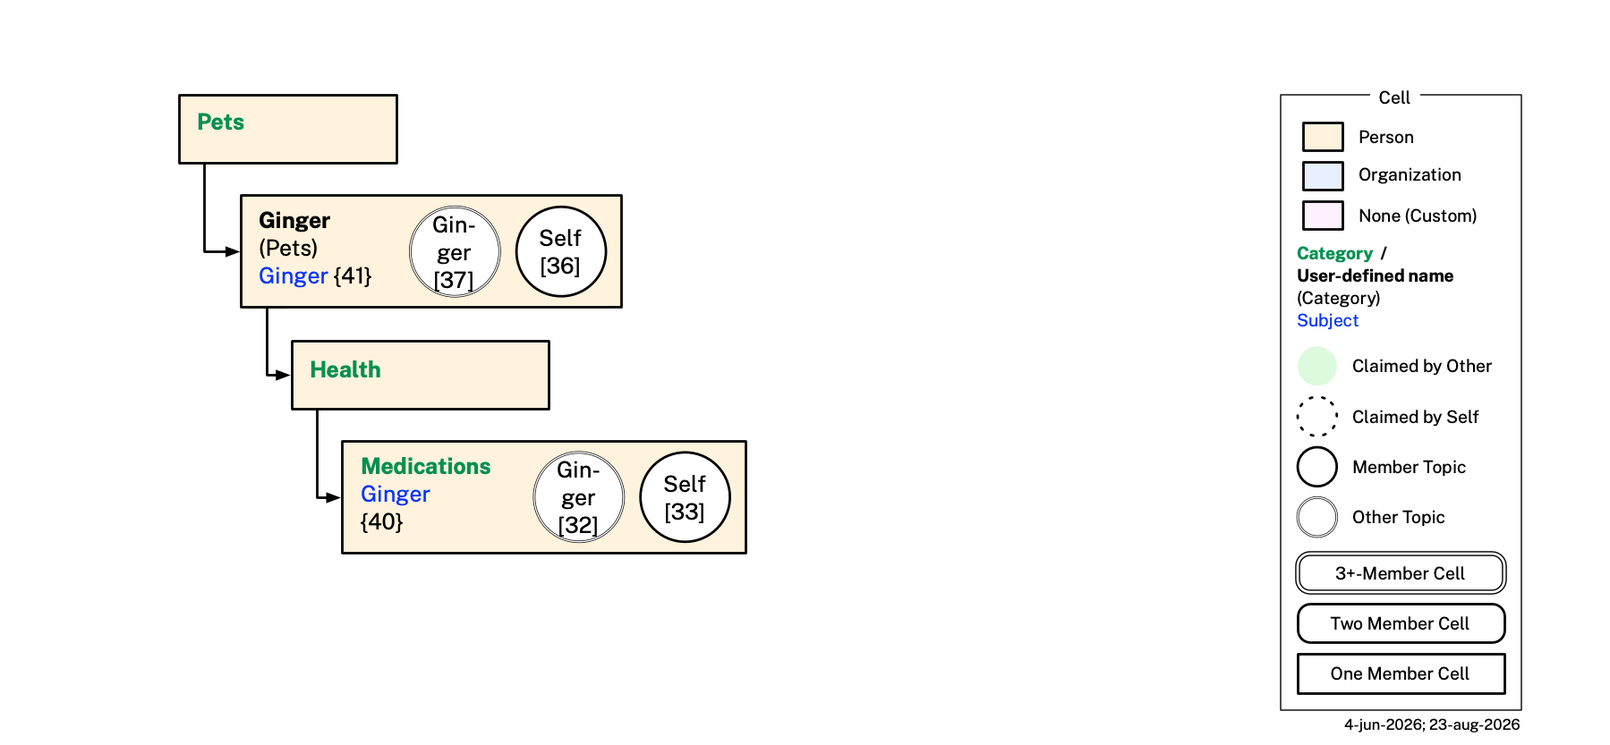
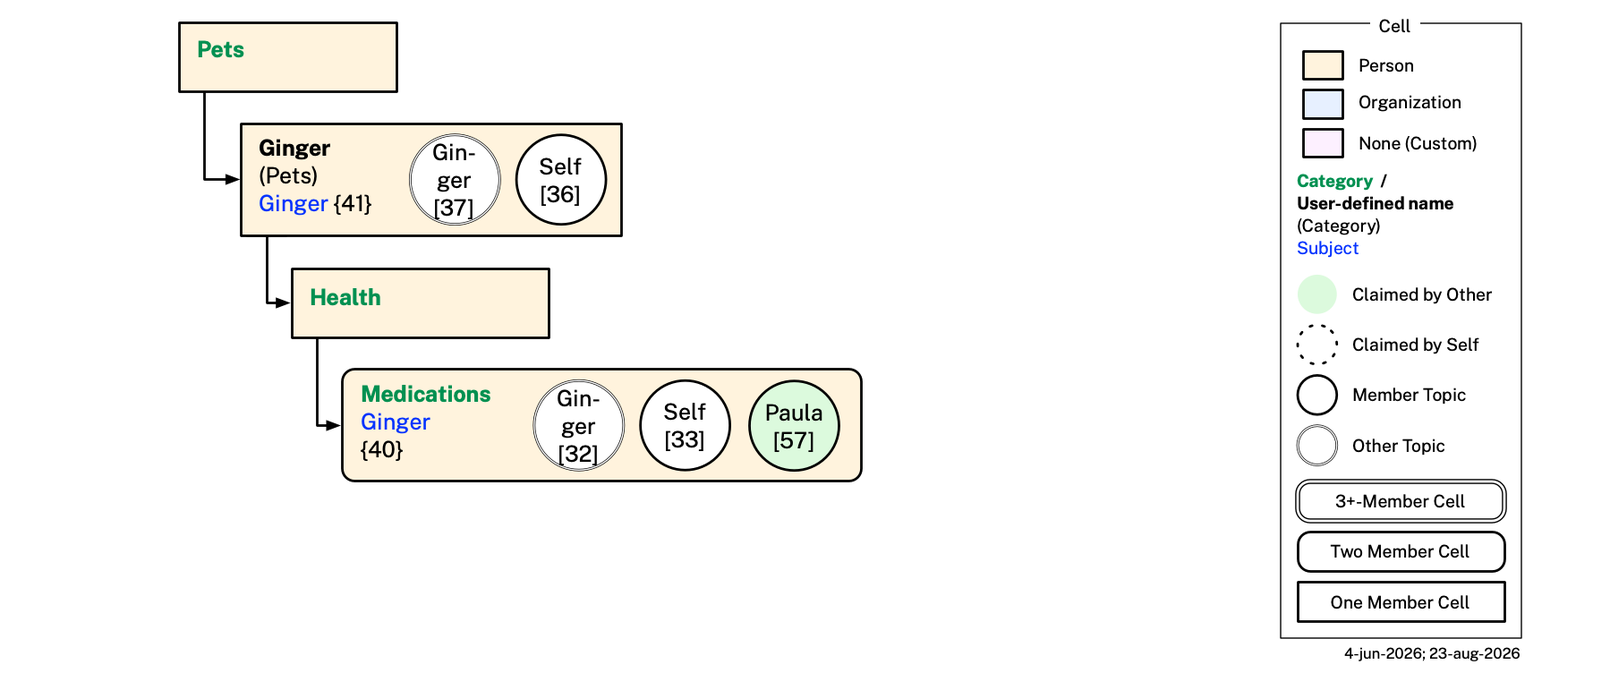
Share Ginger's Medications cell with Paula (topic 57)
- Medications cell (cell-40) becomes cell:TwoMember, shared by Self
  with Paula: adds topic-57 (Paula's own bare given-name claim) as
  the second memberTopics entry alongside topic-33; subject stays
  :Ginger, backed by otherTopics topic-32.
- Generate example/topics/images/topic-57.png via draw.py.
- Update EXAMPLE.md narrative, cell/topic tables, and the invite-link
  paragraph (hyperlink "cell 40" to the Medications cell-databook).
- Fix CLAUDE.md Checks 10f/15: "2 Member Cell" is a single border with
  rounded corners, not a double border — only 3+-Member doubles the
  border. Corrected to match the actual diagram legends.

diff --git a/CLAUDE.md b/CLAUDE.md
@@ -74,7 +74,8 @@ Every topic below is an embedded section (`mia.topics` entry + `### Topic NN` bo
 | Topic 29 — `example/Cells/People/Others/Fred Flintstone/Fred Flintstone(others).databook.md` | Alice's 1:1 topic with Fred; social network with Fred as member — claimed by Alice |
 | Topic 31 — `example/Cells/People/Others/Fred Flintstone/Fred Flintstone(others).databook.md` | Fred's self-claimed Fred persona |
 | Topic 32 — `example/Cells/Pets/Ginger/Health/Medications/Medications.databook.md` | Alice's record of her cat Ginger's medications — amoxicillin/clavulanate course, ongoing glucosamine/chondroitin supplement — claimed by Alice; linked as an `otherTopic` (Ginger has no `p:Person` individual) |
-| Topic 33 — `example/Cells/Pets/Ginger/Health/Medications/Medications.databook.md` | Deliberately empty — the cell's required `memberTopics` entry, claimed by Alice |
+| Topic 33 — `example/Cells/Pets/Ginger/Health/Medications/Medications.databook.md` | Deliberately empty — one of the cell's two required `memberTopics` entries, claimed by Alice |
+| Topic 57 — `example/Cells/Pets/Ginger/Health/Medications/Medications.databook.md` | Deliberately empty — the other required `memberTopics` entry, claimed by Paula, after the cell (created by Self) was shared with Paula and became a `cell:TwoMember` cell |
 | `example/topics/self.ttl` | `:Self`'s sole type declaration (`rdf:type owl:NamedIndividual, persona:Person`); not `owl:imports`ed anywhere, merged in only for validation |
 
 ## Architecture
@@ -316,7 +317,7 @@ Note: this check's `^id:\s*(\S+)` regex is anchored at true line-start with no l
 
 - **10e — Child arrows match folder nesting**: Every downward child arrow from cell box A to cell box B in a diagram must correspond to B's folder being a direct filesystem subfolder of A's folder (i.e. B is a descendant cell of A) — child links are derived purely from folder nesting, not any `child:` YAML field. Conversely, every direct-subfolder relationship between two cells must be reflected by a visible child arrow in the diagram.
 
-- **10f — Cell box border style matches `mia.memberCount`**: Per the Key legend, a cell box is drawn with one of three border styles — a single border ("1 Member Cell"), a double border ("2 Member Cell"), or a bold/double border ("3+ Member Cell") — corresponding to `cell:OneMember`, `cell:TwoMember`, and `cell:ThreePlusMember` respectively (these display strings are `cell:label` values, matching the diagrams' wording). The border style shown for a cell box must match the actual `mia.memberCount` value of the cell-databook co-located in that box's own folder. This is a visual check (no script) — e.g. `people2.png`'s "Jane Starostina" box is drawn with a single border ("1 Member Cell"), which must match `Jane-Starostina(primary-care-physician).databook.md`'s `mia.memberCount: "cell:OneMember"`.
+- **10f — Cell box border style matches `mia.memberCount`**: Per the Key legend, a cell box is drawn with one of three border styles — square corners with a single border ("1 Member Cell"), rounded corners with a single border ("2 Member Cell"), or rounded corners with a double/bold border ("3+ Member Cell") — corresponding to `cell:OneMember`, `cell:TwoMember`, and `cell:ThreePlusMember` respectively (these display strings are `cell:label` values, matching the diagrams' wording). The distinguishing feature between a One- and a Two-Member cell is corner rounding, not border doubling — only the 3+-Member style doubles the border. The border style shown for a cell box must match the actual `mia.memberCount` value of the cell-databook co-located in that box's own folder. This is a visual check (no script) — e.g. `people2.png`'s "Jane Starostina" box is drawn with square corners and a single border ("1 Member Cell"), which must match `Jane-Starostina(primary-care-physician).databook.md`'s `mia.memberCount: "cell:OneMember"`; `pets.png`'s "Medications" box is drawn with rounded corners and a single border ("2 Member Cell"), matching its `mia.memberCount: "cell:TwoMember"`.
 
 - **10g — Blue "Subject" annotation matches `cell:subject`**: Per the Key legend's "Subject" entry, a cell box carries a blue "Subject" text annotation listing the name(s) of the resource(s) the cell's relationship is about, comma-separated when there are two. This text must list exactly the same value(s) — by name, not IRI — as the actual `mia.subject` value(s) of the cell-databook co-located in that box's own folder, no more and no fewer. This is a visual check (no script) — e.g. `finances.png`'s "Banking & Payments Firms / Citibank" box's Subject annotation reads "Self, Citibank", matching `Citibank(banking-payments).databook.md`'s `mia.subject: [":Self", ":Citibank"]`.
 
@@ -338,7 +339,7 @@ for path in sorted(glob.glob('example/Cells/**/*.databook.md', recursive=True)):
 
 - **10j — Fill color and folder-name-text color match real data**: Every cell across all 11 diagrams carries exactly two independent, mechanically-checkable colors, matching Check 10a's Person/Organization/Custom fill-swatch legend (see Check 15's identical rule for `cat-cell-topic.png`): a **fill** color, applied to the folder icon itself (the cell's own content box is always plain white and never carries fill) — tan if the folder's `mia.origin` resolves to `cat:Person`, light blue if `cat:Organization`, purple/Custom if the cell has no origin at all — and a folder-**name-text** color (green/"Predefined" if the folder's `title:` equals the origin class's own `rdfs:label` verbatim, plain black/"User-defined" otherwise — always black for a no-origin/Custom cell). This is a visual check (no automated pixel/OCR comparison) — use Check 20's script (identical rule, just applied to a different set of diagrams) to compute the correct fill/text color for every real folder and cross-reference against whichever diagram is being checked — e.g. `people.png`: "People"/"Others" tan fill + green text; "Bob Johnson"/"Fred Flintstone" tan fill + black text; `work.png`: "Paula"/"Alice Walker" light-blue fill + black text; `people2.png`: "Paula Walker"/"Jane Starostina"/"Med. App. Info" tan fill + black text; `pets.png`: "Pets"/"Health"/"Medications" tan fill + green text (folder name matches origin label), "Ginger" tan fill + black text (origin `cat:Pets` label "Pets" ≠ folder name "Ginger"). No real example cell currently uses the Custom (no-origin, `(custom)` filename) case — every current cell has an origin — so no example diagram box is expected to show purple fill yet.
 
-The 11 diagrams are: `example/images/people.png`, `example/images/people2.png`, `example/images/work.png`, `example/images/companies.png`, `example/images/finances.png`, `example/images/gov-state.png`, `example/images/gov-federal.png`, `example/images/gov-municipality.png`, `example/images/misc.png`, `example/images/affiliations.png`, `example/images/pets.png`. There is no `health.png` — its content, e.g. Health & Wellness/Medical/Providers, lives in `people2.png` instead. `pets.png` shows both the "Ginger" cell (cell-41, `{41}`, topics `[36]`/`[37]`) and the "Medications" cell (cell-40, `{40}`, topics `[32]`/`[33]`) as separate content boxes under the `Pets → Ginger → Health → Medications` folder nesting.
+The 11 diagrams are: `example/images/people.png`, `example/images/people2.png`, `example/images/work.png`, `example/images/companies.png`, `example/images/finances.png`, `example/images/gov-state.png`, `example/images/gov-federal.png`, `example/images/gov-municipality.png`, `example/images/misc.png`, `example/images/affiliations.png`, `example/images/pets.png`. There is no `health.png` — its content, e.g. Health & Wellness/Medical/Providers, lives in `people2.png` instead. `pets.png` shows both the "Ginger" cell (cell-41, `{41}`, topics `[36]`/`[37]`) and the "Medications" cell (cell-40, `{40}`, topics `[32]`/`[33]`/`[57]`) as separate content boxes under the `Pets → Ginger → Health → Medications` folder nesting.
 
 **Check 11 — Physical folder structure IS the tree of cells in `example/Cells/`**: This check applies only to `example/Cells/` — the user's own instance tree — since there is no separate canonical-instance file tree to mirror. There is no `mia.child`/`mia.cell` YAML list to cross-check the tree against either, so this check has no independently-asserted list to "mirror" at all; it collapses to a pure filesystem sanity check with no YAML frontmatter parsing at all. A folder is a **cell** ("marker dir") iff it directly contains exactly one `*.databook.md` file (the only DataBook type in a user's instance tree is `cell-databook`, so no `-cell` marker is needed to identify one) — that file is simultaneously the cell's real (or placeholder) content and its tree-node marker (cell.ttl's folder ownership boundary rule). A folder can never legally hold more than one cell-databook: a `cell:Cell` is self-contained, and letting two cells share a folder would risk a single file in that folder becoming ambiguously part of both — this check flags any such folder as an error. A plain filesystem folder with no cell-databook of its own is not a cell at all — that word stays reserved for a folder that does have one. Cell naming is not standardized — a cell's own folder name may be the category's display label, a role-based label, or anything else — but a cell-databook's own filename is always the folder's exact verbatim name (see the Cell DataBook Filename Convention), so this check's per-folder marker test and its filename root are one and the same string. A bare, marker-less pass-through directory between two marker dirs is legal, matching README.md's own definition of a "regular filesystem folder" ("A folder without a matching cell DataBook is simply a regular file system folder, not a cell — **even if it contains nested cells of its own**"): such a folder is legal anywhere in the tree, including between two marker dirs, as long as it isn't otherwise empty (i.e. something beneath it eventually has a cell-databook). Run:
 
@@ -423,7 +424,7 @@ If a `TOO MANY CELLS` issue is found, move the extra file(s) out to their own ne
 - **14b** — every `cat:` property defined in `category.ttl` appears as an arrow in the diagram, under the box matching its domain (catches new properties added to the ttl but never drawn, or drawn under the wrong box). This means just `templateCell`.
 - **14c** — the class hierarchy `Category` → `Person`/`Organization` (both abstract) and their leaf subclasses, shown in the diagram matches `category.ttl`'s actual `rdfs:subClassOf` and `cell:abstract` values. There is no second tree to check — `category.ttl` defines no `Folder` hierarchy at all.
 
-**Check 15 — `images/cat-cell-topic.png` matches example usage**: The legend is split into two boxes: a **Category** legend (title "Category") holds only the two folder-**name**-text swatches, "Predefined foldername" (green) and "User-defined foldername" (plain black, no color swatch — it's the absence of green, not a third text color); the **Cell** legend holds three fill-color swatches — Custom (purple), Person (tan), Organization (light blue) — alongside the existing Subject/Origin and border-style entries. None of these names are OWL classes — `category.ttl` defines no `Folder`/`CategoryDefined`/`UserDefined` class; Custom stays a pure filename/display convention. Fill color is on the folder icon, reflecting `c:origin`'s presence and ancestry (tan when it resolves to `cat:Person`, light blue when `cat:Organization`, purple/Custom when the cell has no origin at all — see README's "Category Folders" section); the cell's own content box never carries fill, always plain white. Folder-name text color is a *different* fact, meaningful only when an origin is present — green when the folder's name is copied verbatim from that origin's own `rdfs:label`, plain black when the user gave the folder a different name. A Custom (no-origin) folder has no label to match, so its name is always black text too, never green. The **Cell** legend's Subject/Origin/border-style portion is otherwise unchanged: a blue **Subject** heading over a green-filled circle labeled "Claimed by Other", a white/outlined circle labeled "Claimed by Self", a gray swatch labeled "Shared"; "Member Topic"/"Other Topic" circle entries (mapping to `c:memberTopics`/`c:otherTopics` — visually similar at normal viewing size, lean on the text labels); and three cell-box border-style entries — "3+ Member Cell" (bold/double border), "2 Member Cell" (double border), "1 Member Cell" (single border), matching `cell:ThreePlusMember`/`cell:TwoMember`/`cell:OneMember`'s current `cell:label` values (Check 12d does not cover this, since `cell.png` itself never draws this text; it's verified here and in the 11 example diagrams' own legends, Check 10f, instead). Every topic circle carries an explicit subject-name label (e.g. "Bob", "Self", "BHS") baked directly into the circle. This diagram illustrates representative cell/category associations generically, not tied to a specific example instance — five boxes, each with a single-line folder-name header (no separate `catType`/`label` split), fill color on the folder icon, content box always plain white: `Friends` (purple/Custom fill, black text, no origin at all, `cell:OneMember`, subject "Fred", two topics: a white "Self" member topic — the cell's required `memberTopics` entry, per Check 21 — and a green "Fred" other topic, since Fred is the subject but not the member), `Employee` (light-blue/`Organization`, green text — folder name matches origin `(Employee)`'s own label exactly, `cell:OneMember`, subject "Self", one white "Self" topic), `People` (tan/`Person`, green text — no origin parenthetical shown, correctly compressed since the origin's label already equals the folder name, `cell:OneMember`, subject "Self", one white "Self" topic), `Bob Johnson` (tan/`Person`, black text — origin `(Others)` ≠ folder name, `cell:TwoMember`, subject "Self, Bob", four topics — two white/self-claimed, two green/other-claimed, all four topic link types filled), and `BHS` (tan/`Person`, black text — origin `(Affiliations)` ≠ folder name, `cell:ThreePlusMember`, subject "BHS", three topics: BHS's own profile (green), Self's BHS profile (white), and Bob's BHS member profile (green)). Each cell box shows only a single plain folder icon (no separate "chat" icon; see Check 12's `cell:chat` planned-property note, which concerns `cell.png` only, not this diagram). Re-verify each box's `Member Topic`/`Other Topic` circles and blue `Subject` text remain a valid illustration of the properties and cardinalities described in the Cell and Category Ontology sections of `README.md` after any change to those properties.
+**Check 15 — `images/cat-cell-topic.png` matches example usage**: The legend is split into two boxes: a **Category** legend (title "Category") holds only the two folder-**name**-text swatches, "Predefined foldername" (green) and "User-defined foldername" (plain black, no color swatch — it's the absence of green, not a third text color); the **Cell** legend holds three fill-color swatches — Custom (purple), Person (tan), Organization (light blue) — alongside the existing Subject/Origin and border-style entries. None of these names are OWL classes — `category.ttl` defines no `Folder`/`CategoryDefined`/`UserDefined` class; Custom stays a pure filename/display convention. Fill color is on the folder icon, reflecting `c:origin`'s presence and ancestry (tan when it resolves to `cat:Person`, light blue when `cat:Organization`, purple/Custom when the cell has no origin at all — see README's "Category Folders" section); the cell's own content box never carries fill, always plain white. Folder-name text color is a *different* fact, meaningful only when an origin is present — green when the folder's name is copied verbatim from that origin's own `rdfs:label`, plain black when the user gave the folder a different name. A Custom (no-origin) folder has no label to match, so its name is always black text too, never green. The **Cell** legend's Subject/Origin/border-style portion is otherwise unchanged: a blue **Subject** heading over a green-filled circle labeled "Claimed by Other", a white/outlined circle labeled "Claimed by Self", a gray swatch labeled "Shared"; "Member Topic"/"Other Topic" circle entries (mapping to `c:memberTopics`/`c:otherTopics` — visually similar at normal viewing size, lean on the text labels); and three cell-box border-style entries — "3+ Member Cell" (rounded corners, bold/double border), "2 Member Cell" (rounded corners, single border), "1 Member Cell" (square corners, single border) — the One-vs-Two distinction is corner rounding, not border doubling; only 3+ doubles the border — matching `cell:ThreePlusMember`/`cell:TwoMember`/`cell:OneMember`'s current `cell:label` values (Check 12d does not cover this, since `cell.png` itself never draws this text; it's verified here and in the 11 example diagrams' own legends, Check 10f, instead). Every topic circle carries an explicit subject-name label (e.g. "Bob", "Self", "BHS") baked directly into the circle. This diagram illustrates representative cell/category associations generically, not tied to a specific example instance — five boxes, each with a single-line folder-name header (no separate `catType`/`label` split), fill color on the folder icon, content box always plain white: `Friends` (purple/Custom fill, black text, no origin at all, `cell:OneMember`, subject "Fred", two topics: a white "Self" member topic — the cell's required `memberTopics` entry, per Check 21 — and a green "Fred" other topic, since Fred is the subject but not the member), `Employee` (light-blue/`Organization`, green text — folder name matches origin `(Employee)`'s own label exactly, `cell:OneMember`, subject "Self", one white "Self" topic), `People` (tan/`Person`, green text — no origin parenthetical shown, correctly compressed since the origin's label already equals the folder name, `cell:OneMember`, subject "Self", one white "Self" topic), `Bob Johnson` (tan/`Person`, black text — origin `(Others)` ≠ folder name, `cell:TwoMember`, subject "Self, Bob", four topics — two white/self-claimed, two green/other-claimed, all four topic link types filled), and `BHS` (tan/`Person`, black text — origin `(Affiliations)` ≠ folder name, `cell:ThreePlusMember`, subject "BHS", three topics: BHS's own profile (green), Self's BHS profile (white), and Bob's BHS member profile (green)). Each cell box shows only a single plain folder icon (no separate "chat" icon; see Check 12's `cell:chat` planned-property note, which concerns `cell.png` only, not this diagram). Re-verify each box's `Member Topic`/`Other Topic` circles and blue `Subject` text remain a valid illustration of the properties and cardinalities described in the Cell and Category Ontology sections of `README.md` after any change to those properties.
 
 **Check 16 — IRI roots: `mee.foundation/ontologies` for foundational files, `www.example.org` for example data**: Every foundational ontology and SHACL shapes file — `persona.ttl`, `topic.ttl`, `cell.ttl`, `category.ttl`, `cell-templates.ttl`, `pdn-identity.ttl`, `organization.ttl`, `persona-templates.ttl`, their `*-shacl.ttl` companions (including `cell-templates-shacl.ttl`), and the per-template files in `shacl/` — must declare its `owl:Ontology` IRI under `http://mee.foundation/ontologies/`. There is no separate canonical category/cell DataBook tree to check — the canonical tree's IRI roots are covered by `category.ttl`/`cell-templates.ttl` themselves. Every DataBook under `example/Cells/` (excluding `under-development/`) represents Alice's own example instance data, so both its own `id:` and every `mia.topics[].id` value it carries must be grounded under `http://www.example.org/` — `https://` is deliberately rejected here, not just accepted alongside it, since every identifier in the example tree (cell ids and topic ids alike) was standardized on the plain `http://` scheme for consistency; a stray `https://` is exactly the kind of drift this check exists to catch. Run:
 

diff --git a/example/Cells/Pets/Ginger/Health/Medications/Medications.databook.md b/example/Cells/Pets/Ginger/Health/Medications/Medications.databook.md
@@ -2,21 +2,29 @@
 id: http://www.example.org/mia/cells/cell-40
 title: "Medications"
 type: cell-databook
-version: 1.2.0
+version: 1.3.0
 created: 2026-08-21
 description: >
-  Cell DataBook for folder "Medications" (cell:origin: cat:PetsMedications). It is a one-member cell with one memberTopic about :Self and one otherTopic about :Ginger, Alice's cat (the cell's subject).
+  Cell DataBook for folder "Medications" (cell:origin: cat:PetsMedications). It is a two-member cell, shared by Alice with Paula, with two memberTopics (about :Self and :Paula_Walker) and one otherTopic about :Ginger, Alice's cat (the cell's subject).
 mia:
   origin: "cat:PetsMedications"
   creator: ":Self"
-  memberCount: "cell:OneMember"
+  memberCount: "cell:TwoMember"
   subject: ":Ginger"
-  memberTopics: "topic-33"
+  memberTopics:
+    - "topic-33"
+    - "topic-57"
   otherTopics: "topic-32"
   topics:
     - id: "http://www.example.org/mia/topics/topic-33"
       claimant: ":Self"
       subject: ":Self"
+      shapes:
+        - http://mee.foundation/ontologies/persona/shapes
+        - http://mee.foundation/ontologies/topic/shapes
+    - id: "http://www.example.org/mia/topics/topic-57"
+      claimant: ":Paula_Walker"
+      subject: ":Paula_Walker"
       shapes:
         - http://mee.foundation/ontologies/persona/shapes
         - http://mee.foundation/ontologies/topic/shapes
@@ -37,7 +45,7 @@ mia:
 
 #### Overview
 
-This topic is the cell's one required `memberTopics` entry, satisfying `cell:OneMember`'s per-member baseline. Alice is both the claimant and the subject. Deliberately empty: the `memberTopics` requirement is about `t:subject`/`t:claimant` (asserted at the `mia.topics[]` YAML level, not in this Turtle body), not about carrying any particular content.
+This topic is one of the cell's two `memberTopics` entries, satisfying `cell:TwoMember`'s per-member baseline alongside topic 57 (Paula's own claim, below). Alice is both the claimant and the subject. Deliberately empty: the `memberTopics` requirement is about `t:subject`/`t:claimant` (asserted at the `mia.topics[]` YAML level, not in this Turtle body), not about carrying any particular content.
 
 #### Topic Graph
 
@@ -46,12 +54,38 @@ This topic is the cell's one required `memberTopics` entry, satisfying `cell:One
 <!-- databook:graph: http://www.example.org/mia/topics/topic-33#graph -->
 ```
 
+<a id="topic-57"></a>
+### Topic 57
+
+#### Overview
+
+This cell was created by Alice and later shared with Paula, making the cell a `cell:TwoMember` cell. This topic is Paula's own bare identity claim (just her given name) — the cell's second `memberTopics` entry, satisfying `cell:TwoMember`'s per-member baseline alongside topic 33 (Alice's own claim, above). Paula is both the claimant and the subject.
+
+#### Topic Graph
+
+```turtle
+<!-- databook:id: paula-ginger-medications-member-topic-graph -->
+<!-- databook:graph: http://www.example.org/mia/topics/topic-57#graph -->
+@prefix : <http://www.example.org/mia#> .
+@prefix persona: <http://mee.foundation/ontologies/persona#> .
+@prefix cco: <https://w3id.org/cco-domains/cco/> .
+@prefix owl: <http://www.w3.org/2002/07/owl#> .
+@prefix rdf: <http://www.w3.org/1999/02/22-rdf-syntax-ns#> .
+
+:Paula_Walker rdf:type owl:NamedIndividual ,
+               persona:Person ;
+    cco:ont00001879 [  # designated by → GivenName
+        rdf:type cco:ent00000002 ;  # GivenName
+        cco:ont00001765 "Paula"  # has text value
+    ] .
+```
+
 <a id="topic-32"></a>
 ### Topic 32
 
 #### Overview
 
-This topic captures Alice's record of her cat Ginger's medications — an amoxicillin/clavulanate course prescribed after a minor infection, and an ongoing daily joint supplement. Validated by the `PetMedications` per-template SHACL shapes. Alice is the claimant; Ginger is the cell's `subject` but, since she has no `p:Person` individual of her own, her topic is linked as an `otherTopic` rather than the required `memberTopics` entry (topic 33, above, fills that slot instead). Each medication's active ingredient(s) are cited by real ChEBI class IRIs, its tablet/liquid dosage form and amount by DrOn/CCO terms, and its schedule by a DrOn drug-administration individual carrying a BFO temporal interval — see `persona:Medication`'s `rdfs:comment` (persona-templates.ttl) for the full reuse rationale.
+This topic captures Alice's record of her cat Ginger's medications — an amoxicillin/clavulanate course prescribed after a minor infection, and an ongoing daily joint supplement. Validated by the `PetMedications` per-template SHACL shapes. Alice is the claimant; Ginger is the cell's `subject` but, since she has no `p:Person` individual of her own, her topic is linked as an `otherTopic` rather than one of the required `memberTopics` entries (topics 33 and 57, above, fill those slots instead). Each medication's active ingredient(s) are cited by real ChEBI class IRIs, its tablet/liquid dosage form and amount by DrOn/CCO terms, and its schedule by a DrOn drug-administration individual carrying a BFO temporal interval — see `persona:Medication`'s `rdfs:comment` (persona-templates.ttl) for the full reuse rationale.
 
 #### Topic Graph
 

diff --git a/EXAMPLE.md b/EXAMPLE.md
@@ -88,10 +88,13 @@ Here are a few lines from [topic 22](<example/Cells/Ownership/Ownership.databook
 
 ### Ginger's Medications
 
-Alice also has a cat, Ginger. Under her *Pets* cell she has created a *Ginger* cell for this specific pet — reusing its parent's own `cat:Pets` origin — and, nested inside it, a *Health* cell, and nested inside that a *Medications* cell recording Ginger's medications: a completed course of amoxicillin/clavulanate (brand name Clavamox, from Zoetis) and an ongoing daily glucosamine/chondroitin joint supplement ([topic 32](<example/Cells/Pets/Ginger/Health/Medications/Medications.databook.md#topic-32>)). 
-
+Alice also has a cat, Ginger. Under her *Pets* cell she has created a *Ginger* cell for this specific pet — reusing its parent's own `cat:Pets` origin — and, nested inside it, a *Health* cell, and nested inside that a *Medications* cell recording Ginger's medications: a completed course of amoxicillin/clavulanate (brand name Clavamox, from Zoetis) and an ongoing daily glucosamine/chondroitin joint supplement ([topic 32](<example/Cells/Pets/Ginger/Health/Medications/Medications.databook.md#topic-32>)). Alice shared this cell with Paula, who also helps look after Ginger, making it a `cell:TwoMember` cell with Alice's and Paula's own bare identity claims ([topic 33](<example/Cells/Pets/Ginger/Health/Medications/Medications.databook.md#topic-33>) and [topic 57](<example/Cells/Pets/Ginger/Health/Medications/Medications.databook.md#topic-57>)) as its two `memberTopics`.
 
 <p align="center"><img src="example/images/pets.png" alt="Pets cells"></p>
+
+Let's imagine that Paula doesn't use the app and the invite link from Alice to [cell 40](<example/Cells/Pets/Ginger/Health/Medications/Medications.databook.md>) causes Paula to click on the link and download/install the app. The app receives the cell, but where to file it, since Paula has no cells. Paula's app examines the cell, looks at its category type "Medications" and makes a good (though not perfect) guess to create the following tree of empty cells: People / Others / Alice / Pets / Ginger / Health / Medications. 
+
+Ideally it would have filled the new Alice cell under People / Immediate Family because Alice is Paula's daughter, but Paula's app didn't know that. Paula can sometime later create an Immediate Family cell under her People cell and move Alice (and all sub-cells) under it.
 
 ### Boston Hub Society
 
@@ -124,7 +127,7 @@ A summary of every narratively-illustrated cell under `example/Cells/`, grouped 
 | Current and Previous Homes | Paradise | [Paradise(residence).databook.md](<example/Cells/Government/Municipality/Paradise/Paradise(residence).databook.md>) {8} | Self | `cat:Residence` | 18 |
 | Possessions | Ownership | [Ownership.databook.md](<example/Cells/Ownership/Ownership.databook.md>) {11} | Self | `cat:Ownership` | 22 |
 | Ginger's Medications | Ginger | [Ginger(pets).databook.md](<example/Cells/Pets/Ginger/Ginger(pets).databook.md>) {41} | Ginger | `cat:Pets` | 36, 37 |
-| Ginger's Medications | Medications | [Medications.databook.md](<example/Cells/Pets/Ginger/Health/Medications/Medications.databook.md>) {40} | Ginger | `cat:PetsMedications` | 32, 33 |
+| Ginger's Medications | Medications | [Medications.databook.md](<example/Cells/Pets/Ginger/Health/Medications/Medications.databook.md>) {40} | Ginger | `cat:PetsMedications` | 32, 33, 57 |
 | Boston Hub Society | Boston Hub Society | [Boston Hub Society(affiliations).databook.md](<example/Cells/Affiliations/Boston Hub Society/Boston Hub Society(affiliations).databook.md>) {1} | BHS | `cat:Affiliations` | 1, 3, 14 |
 
 ## Topics
@@ -180,6 +183,7 @@ The following table lists topics about other people (Paula and Bob) or organizat
 | 31 | [Fred Flintstone(others).databook.md](<example/Cells/People/Others/Fred Flintstone/Fred Flintstone(others).databook.md#topic-31>) {17}                     | `cat:Others`       | Fred's self-claimed Fred persona                                 | [view](example/topics/images/topic-31.png) |
 | 32 | [Medications.databook.md](<example/Cells/Pets/Ginger/Health/Medications/Medications.databook.md#topic-32>) {40} | `cat:PetsMedications`       | Alice's record of her cat Ginger's medications — amoxicillin/clavulanate course, ongoing glucosamine/chondroitin supplement           | [view](example/topics/images/topic-32.png)|
 | 37 | [Ginger(pets).databook.md](<example/Cells/Pets/Ginger/Ginger(pets).databook.md#topic-37>) {41} | `cat:Pets`       | Alice's basic claim identifying Ginger — backs the Ginger cell's `subject: ":Ginger"` with a real topic           | [view](example/topics/images/topic-37.png)|
+| 57 | [Medications.databook.md](<example/Cells/Pets/Ginger/Health/Medications/Medications.databook.md#topic-57>) {40} | `cat:PetsMedications`       | Paula's own self-claimed given-name claim — the cell's second `memberTopics` entry after Alice shared it with her, making it a `cell:TwoMember` cell           | [view](example/topics/images/topic-57.png)|
 
 ## Diagrams
 
